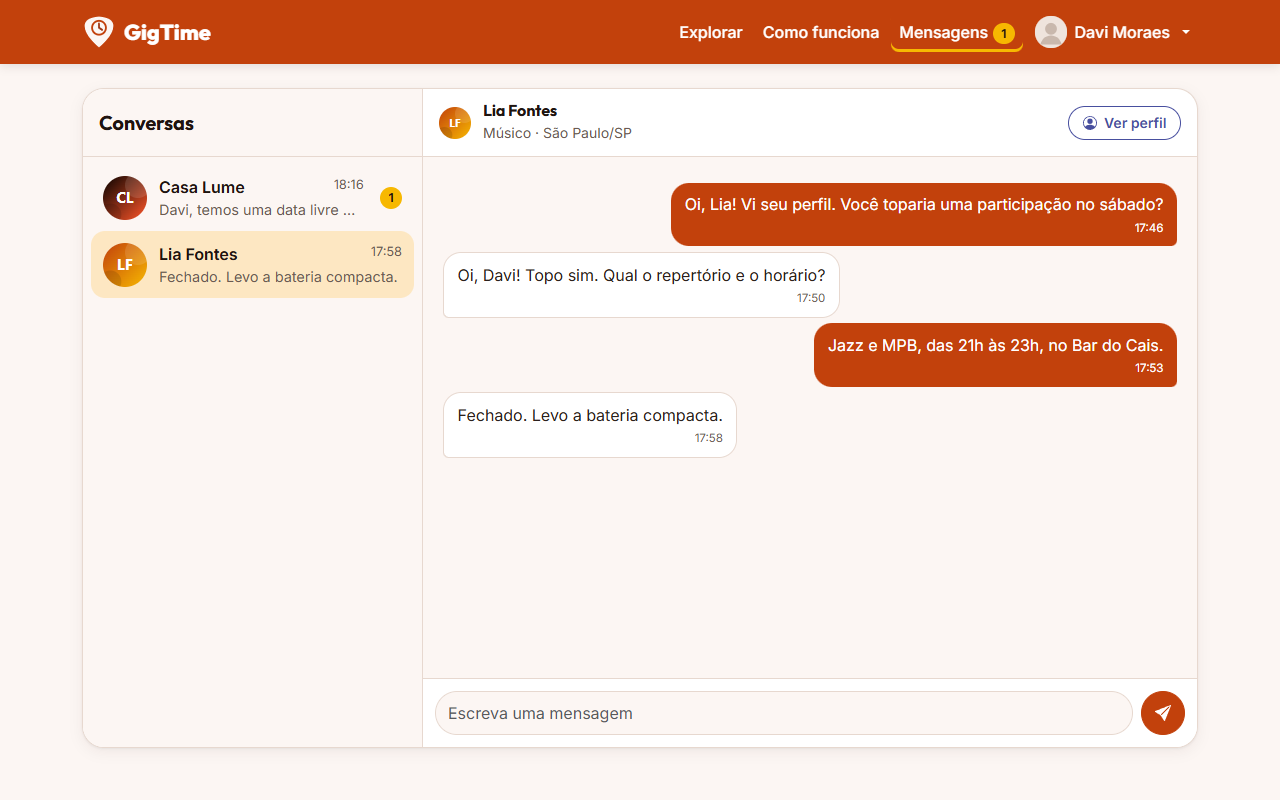
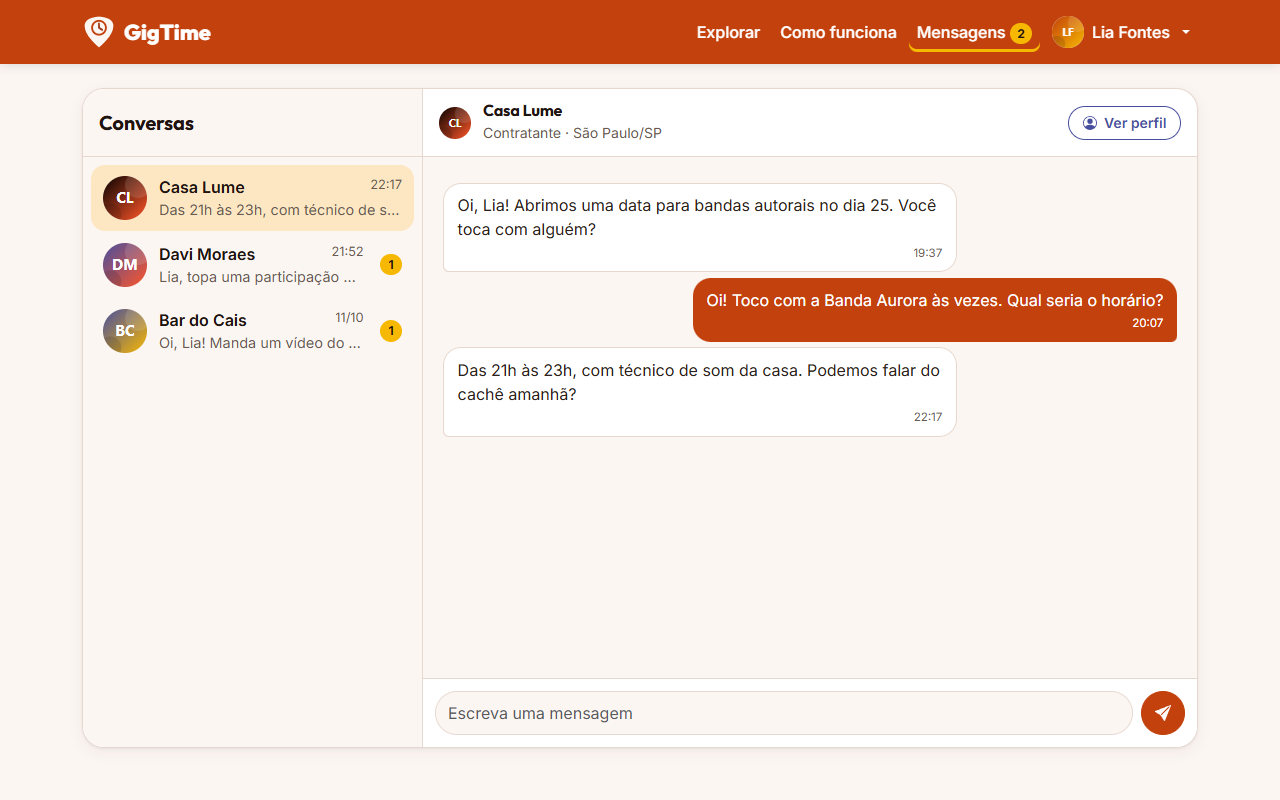
refaz os prints e o GIF a partir do estado real da demonstração, sem injetar conversa

Changed region(s): [[0.0625, 0.1875, 0.9375, 0.5625], [0.5312, 0.0, 0.9062, 0.0625], [0.3438, 0.125, 0.5312, 0.1875]]

diff --git a/ferramentas/capturar-telas.js b/ferramentas/capturar-telas.js
@@ -1,27 +1,31 @@
 // Tira prints das telas no Chrome instalado (headless), para o README e para revisão visual.
+// Nada é injetado: o navegador começa vazio, o site grava a própria demonstração (personas e conversas)
+// e as telas logadas usam o "Entrar como músico" de verdade.
 // Uso: node ferramentas/capturar-telas.js <url-base> <pasta-destino> [desktop|celular|ambos]
-// Ex.: node ferramentas/capturar-telas.js http://127.0.0.1:8811 docs/img ambos
+// Ex.: node ferramentas/capturar-telas.js http://127.0.0.1:8800 docs/img ambos
 // Opcional: TELAS=home,sobre (só essas telas) e INTEIRA=1 (página inteira, não só a primeira dobra)
 const fs = require('node:fs');
 const path = require('node:path');
 const { chromium } = require('playwright-core');
 
 const CHROME = process.env.CHROME_PATH || 'C:\\Program Files\\Google\\Chrome\\Application\\chrome.exe';
-const [base = 'http://127.0.0.1:8811', destino = 'docs/img', modo = 'ambos'] = process.argv.slice(2);
+const [base = 'http://127.0.0.1:8800', destino = 'docs/img', modo = 'ambos'] = process.argv.slice(2);
 
+// Na ordem em que são visitadas: primeiro como visitante, depois logado como a conta de músico da demo
 const TELAS = [
   { nome: 'home', url: '/Home/home.html' },
   { nome: 'explorar', url: '/anuncios/anuncios.html?papel=M%C3%BAsico' },
-  { nome: 'perfil', url: '/Perfil/perfil.html?u=lia.batera', logado: 'davi.sax' },
-  { nome: 'chat', url: '/Chat/chat.html?com=lia.batera', logado: 'davi.sax', conversa: true },
   { nome: 'entrar', url: '/Login/login.html' },
   { nome: 'cadastro', url: '/Registro/registro.html' },
-  { nome: 'editar-perfil', url: '/EdicaoPerfil/EdicaoPerfil.html', logado: 'davi.sax' },
-  { nome: 'conta', url: '/Conta/conta.html', logado: 'davi.sax' },
   { nome: 'sobre', url: '/Sobre/sobre.html' },
   { nome: 'privacidade', url: '/Privacidade/privacidade.html' },
   { nome: 'esqueci-senha', url: '/Acesso/esqueci-senha.html' },
   { nome: 'sessao-expirada', url: '/Acesso/sessao-expirada.html' },
+  { entrarComo: 'musico' },
+  { nome: 'perfil', url: '/Perfil/perfil.html?u=casa.lume' },
+  { nome: 'chat', url: '/Chat/chat.html?com=casa.lume' },
+  { nome: 'editar-perfil', url: '/EdicaoPerfil/EdicaoPerfil.html' },
+  { nome: 'conta', url: '/Conta/conta.html' },
 ];
 
 const TAMANHOS = { desktop: { width: 1280, height: 800 }, celular: { width: 375, height: 812 } };
@@ -30,36 +34,28 @@ const TAMANHOS = { desktop: { width: 1280, height: 800 }, celular: { width: 375,
   fs.mkdirSync(destino, { recursive: true });
   const navegador = await chromium.launch({ executablePath: CHROME });
   const tamanhos = modo === 'ambos' ? ['desktop', 'celular'] : [modo];
+  const filtro = process.env.TELAS ? process.env.TELAS.split(',') : null;
   for (const tamanho of tamanhos) {
+    // Um contexto limpo e uma aba só por tamanho: a sessão (sessionStorage) é da aba
     const contexto = await navegador.newContext({ viewport: TAMANHOS[tamanho], deviceScaleFactor: 1, reducedMotion: 'reduce' });
-    const filtro = process.env.TELAS ? process.env.TELAS.split(',') : null; // ex.: TELAS=home,sobre
-    for (const tela of TELAS.filter((t) => !filtro || filtro.includes(t.nome))) {
-      const pagina = await contexto.newPage();
-      const erros = [];
-      pagina.on('pageerror', (e) => erros.push(e.message));
-      pagina.on('console', (m) => { if (m.type() === 'error') erros.push(m.text()); });
-      // Conversa de exemplo para o print do chat (gravada antes do script da página rodar)
-      await pagina.addInitScript(({ logado, conversa }) => {
-        if (logado && !sessionStorage.getItem('loggedInUser')) sessionStorage.setItem('loggedInUser', JSON.stringify({ username: logado, name: logado === 'davi.sax' ? 'Davi Moraes' : logado }));
-        if (conversa && !localStorage.getItem('gigtime:messages')) {
-          const agora = Date.now();
-          const m = (de, para, texto, s) => ({ id: `${s}-${de}`, de, para, texto, enviadaEm: agora - s * 60000 });
-          localStorage.setItem('gigtime:messages', JSON.stringify([
-            m('davi.sax', 'lia.batera', 'Oi, Lia! Vi seu perfil. Você toparia uma participação no sábado?', 42),
-            m('lia.batera', 'davi.sax', 'Oi, Davi! Topo sim. Qual o repertório e o horário?', 38),
-            m('davi.sax', 'lia.batera', 'Jazz e MPB, das 21h às 23h, no Bar do Cais.', 35),
-            m('lia.batera', 'davi.sax', 'Fechado. Levo a bateria compacta.', 30),
-            m('casa.lume', 'davi.sax', 'Davi, temos uma data livre no fim do mês.', 12),
-          ]));
-        }
-      }, { logado: tela.logado, conversa: tela.conversa });
+    const pagina = await contexto.newPage();
+    const erros = [];
+    pagina.on('pageerror', (e) => erros.push(e.message));
+    pagina.on('console', (m) => { if (m.type() === 'error') erros.push(m.text()); });
+    for (const tela of TELAS) {
+      if (tela.entrarComo) {
+        await pagina.goto(`${base}/Login/login.html?demo=${tela.entrarComo}`);
+        await pagina.waitForURL(/anuncios/, { waitUntil: 'networkidle' });
+        continue;
+      }
+      if (filtro && !filtro.includes(tela.nome)) continue;
       await pagina.goto(base + tela.url, { waitUntil: 'networkidle' });
       await pagina.waitForTimeout(300);
       const arquivo = path.join(destino, `${tela.nome}-${tamanho}.png`);
       await pagina.screenshot({ path: arquivo, fullPage: process.env.INTEIRA === '1' });
-      console.log(`${arquivo}${erros.length ? '  ERROS: ' + erros.join(' | ') : ''}`);
-      await pagina.close();
+      console.log(arquivo);
     }
+    if (erros.length) console.log('ERROS NO CONSOLE: ' + erros.join(' | '));
     await contexto.close();
   }
   await navegador.close();

diff --git a/ferramentas/gravar-gif.js b/ferramentas/gravar-gif.js
@@ -7,7 +7,7 @@ const { PNG } = require('pngjs');
 const { GIFEncoder, quantize, applyPalette } = require('gifenc');
 
 const CHROME = process.env.CHROME_PATH || 'C:\\Program Files\\Google\\Chrome\\Application\\chrome.exe';
-const [base = 'http://127.0.0.1:8811', destino = 'docs/img/demo.gif'] = process.argv.slice(2);
+const [base = 'http://127.0.0.1:8800', destino = 'docs/img/demo.gif'] = process.argv.slice(2);
 const LARGURA = 1100;
 const ALTURA = 680;
 
@@ -35,9 +35,8 @@ const ALTURA = 680;
   await pagina.evaluate(() => { localStorage.clear(); sessionStorage.clear(); });
   await pagina.goto(base + '/Home/home.html', { waitUntil: 'networkidle' });
   await quadro(1800);
-  await pagina.locator('a[href="../Login/login.html?demo=musico"]').scrollIntoViewIfNeeded();
-  await quadro(1200);
-  await pagina.click('a[href="../Login/login.html?demo=musico"]');
+  // atalho da demonstração na primeira dobra (hero)
+  await pagina.click('.hero a[href="../Login/login.html?demo=musico"]');
   await pagina.waitForURL(/anuncios/, { waitUntil: 'load' });
   await pagina.waitForTimeout(400);
   await quadro(1600);
